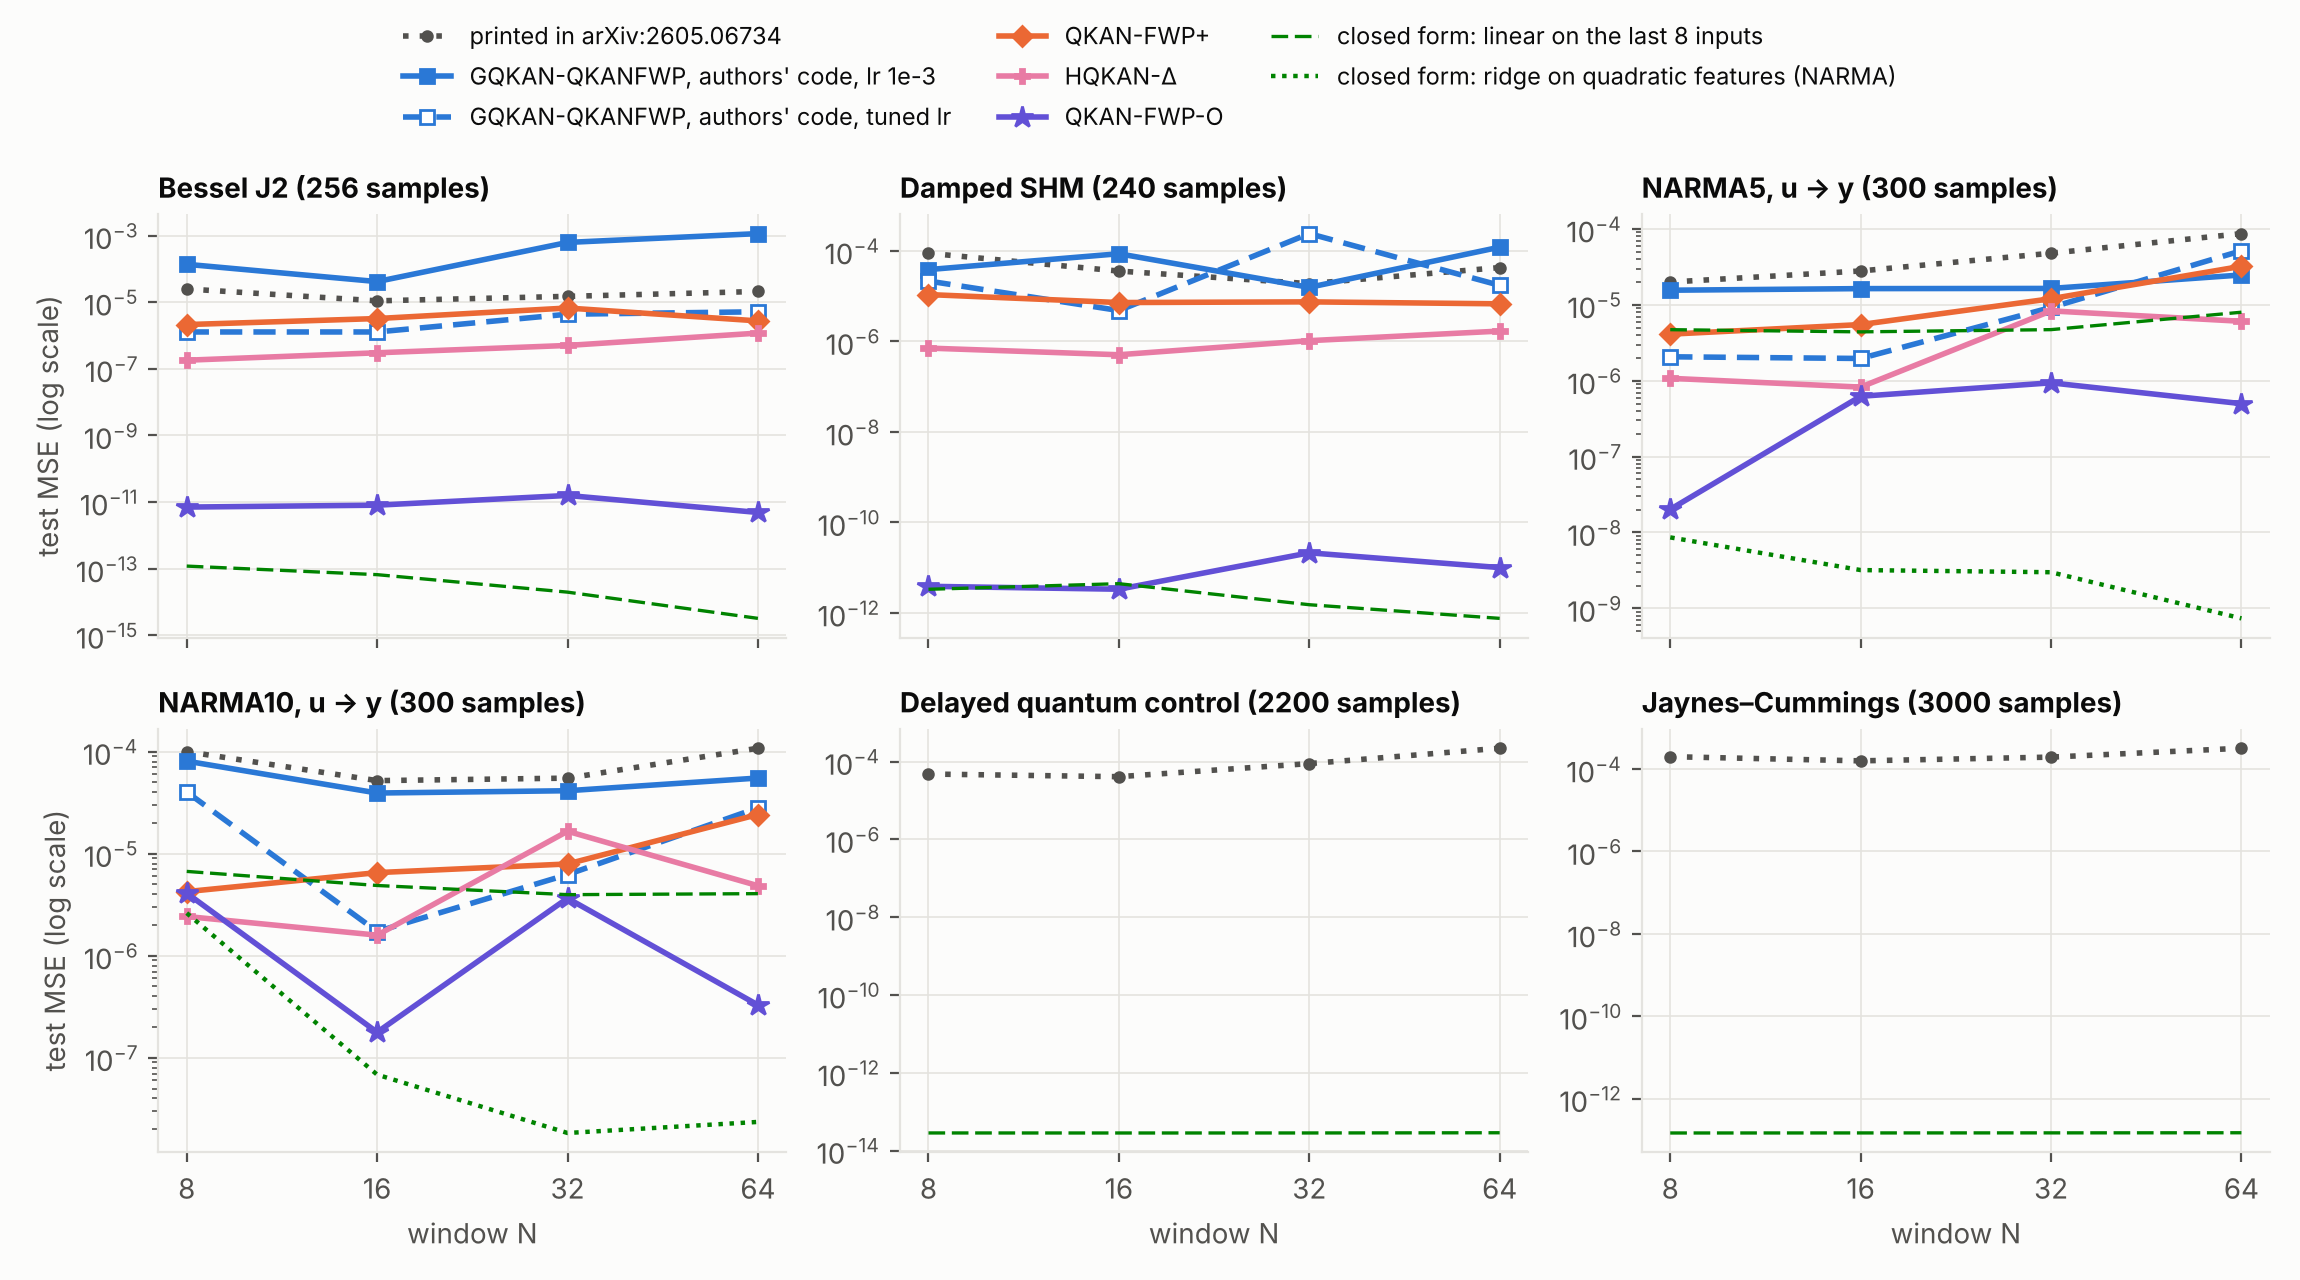
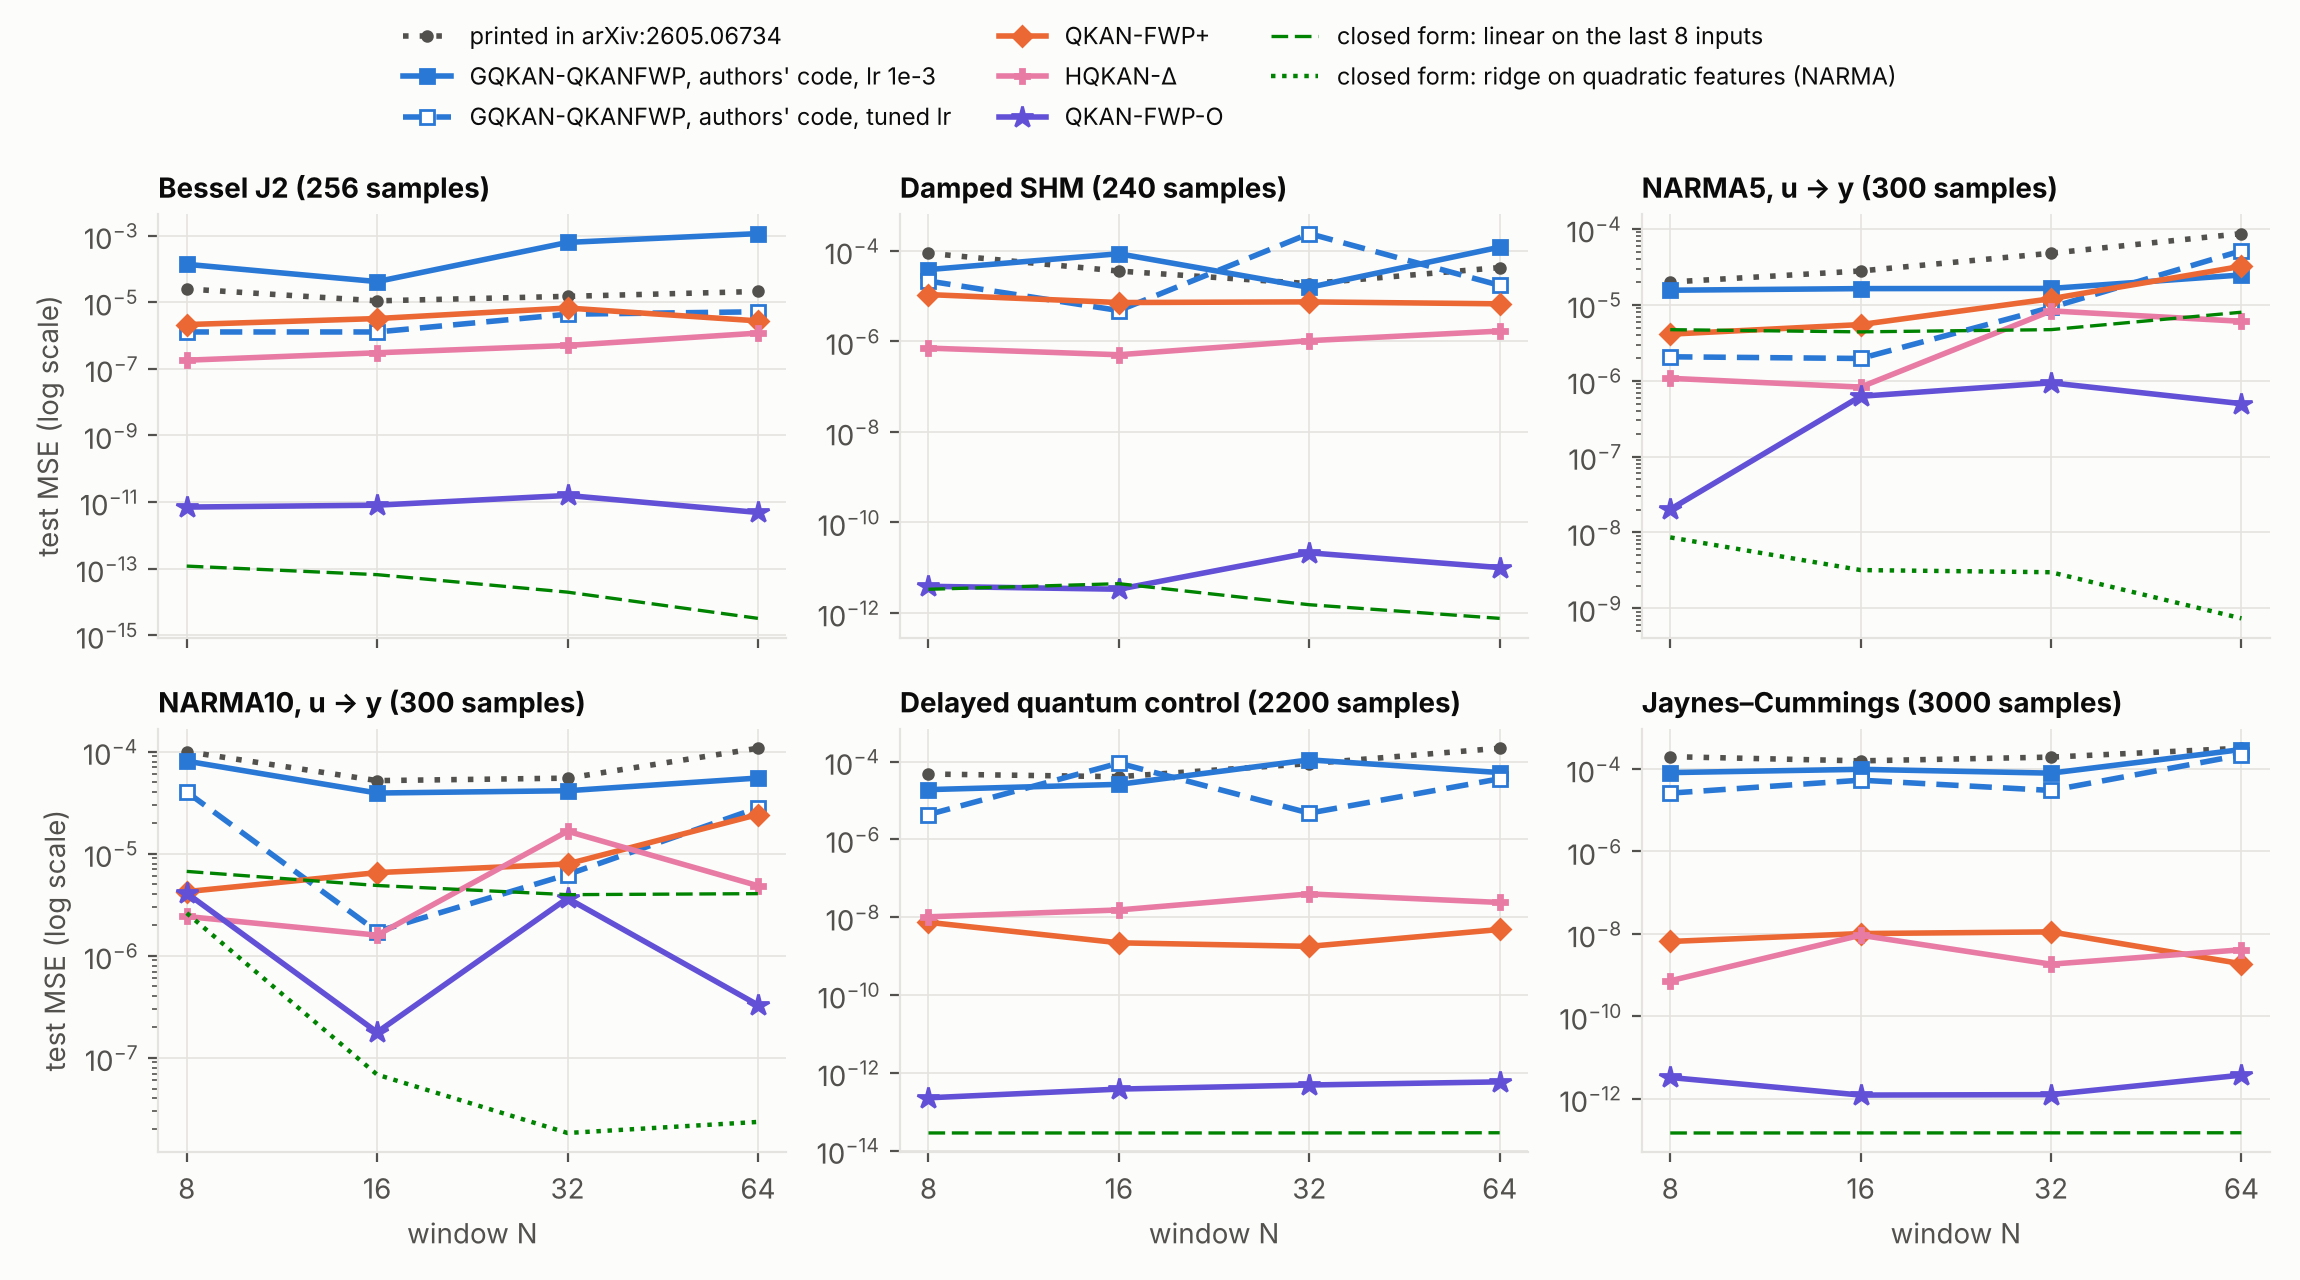
Authors' code protocol: long series (seeds 0-2) and report text in progress
Claude-Session: https://claude.ai/code/session_016nXnsLn5FE7GbFMSeiQvNh

diff --git a/experiments/report/build_report.py b/experiments/report/build_report.py
@@ -47,6 +47,12 @@ TABLES = {
     "burnin": ("tables_final.md", "NARMA without the start-up transient"),
     "solar_parts": ("tables_final.md", "Solar cycle: final comparison"),
     "solar_grid": ("tables_final.md", "Solar cycle: the paper's learning-rate grid"),
+    # results/tables_code.md: the settings of the authors' released code
+    "code_repro": ("tables_code.md", "Reproduction with the authors' settings"),
+    "code_summary": ("tables_code.md", "Authors' datasets: per-dataset summary"),
+    "code_vs": ("tables_code.md", "Authors' datasets: QKAN-FWP-O against each model"),
+    "code_cells": ("tables_code.md", "Authors' datasets: all cells"),
+    "code_solar": ("tables_code.md", "Solar cycle with the file, split and model of the authors' code"),
     # results/tables_single_change.md
     "single_change": ("tables_single_change.md", "Time series: ablation"),
 }

diff --git a/results/tables_code.md b/results/tables_code.md
@@ -20,8 +20,16 @@ The paper states 50 epochs; the README of the code gives 100 epochs as the bench
 | NARMA10, u → y (300 samples) | 16 | 5.2e-05 | 3.9e-05 ± 1.8e-05 | 4.5e-05 | 8.3e-06 | 5 | 0.76× |
 | NARMA10, u → y (300 samples) | 32 | 5.5e-05 | 4.1e-05 ± 1.7e-05 | 3.0e-05 | 1.6e-05 | 5 | 0.75× |
 | NARMA10, u → y (300 samples) | 64 | 1.1e-04 | 5.5e-05 ± 2.2e-05 | 5.3e-05 | 2.2e-05 | 5 | 0.51× |
+| Delayed quantum control (2200 samples) | 8 | 4.8e-05 | 1.9e-05 ± 3.3e-06 | 1.9e-05 | 1.7e-05 | 3 | 0.4× |
+| Delayed quantum control (2200 samples) | 16 | 4.1e-05 | 2.6e-05 ± 9.2e-06 | 2.3e-05 | 1.5e-05 | 3 | 0.63× |
+| Delayed quantum control (2200 samples) | 32 | 8.9e-05 | 1.1e-04 ± 6.2e-05 | 1.0e-04 | 5.1e-05 | 3 | 1.2× |
+| Delayed quantum control (2200 samples) | 64 | 2.2e-04 | 5.2e-05 ± 5.2e-05 | 3.1e-05 | 5.1e-05 | 3 | 0.24× |
+| Jaynes–Cummings (3000 samples) | 8 | 2.0e-04 | 8.2e-05 ± 6.9e-06 | 8.7e-05 | 7.9e-05 | 3 | 0.41× |
+| Jaynes–Cummings (3000 samples) | 16 | 1.6e-04 | 9.9e-05 ± 7.9e-05 | 7.8e-05 | 2.2e-05 | 3 | 0.62× |
+| Jaynes–Cummings (3000 samples) | 32 | 2.0e-04 | 8.0e-05 ± 5.2e-05 | 9.3e-05 | 6.6e-05 | 3 | 0.41× |
+| Jaynes–Cummings (3000 samples) | 64 | 3.2e-04 | 3.0e-04 ± 3.0e-04 | 1.2e-04 | 2.6e-04 | 3 | 0.93× |
 
-- Geometric mean over the 16 cells of (re-run ÷ printed): 1.6× with the mean at 50 epochs, 0.82× with the median at 50 epochs, 0.76× with the mean at 100 epochs.
+- Geometric mean over the 24 cells of (re-run ÷ printed): 1.1× with the mean at 50 epochs, 0.66× with the median at 50 epochs, 0.59× with the mean at 100 epochs.
 
 ## Authors' datasets: per-dataset summary (geometric mean over N ∈ {8, 16, 32, 64} of the seed-mean test MSE)
 
@@ -33,8 +41,8 @@ On the two NARMA tasks the window holds the drive u and the target is y: the mod
 | Damped SHM (240 samples) | 8.8e-06 | 5.0e-05 | 2.6e-05 | 8.0e-06 | 9.0e-07 | 2.7e-07 | **7.3e-12** | *2.0e-12* | – |
 | NARMA5, u → y (300 samples) | 6.5e-06 | 1.8e-05 | 6.6e-06 | 9.7e-06 | 2.6e-06 | 2.4e-06 | **2.8e-07** | *5.3e-06* | *2.8e-09* |
 | NARMA10, u → y (300 samples) | 9.5e-06 | 5.2e-05 | 1.1e-05 | 8.5e-06 | 4.2e-06 | 2.5e-06 | **9.7e-07** | *4.8e-06* | *9.4e-08* |
-| Delayed quantum control (2200 samples) | 5.5e-06 | – | – | – | – | – | – | *2.8e-14* | – |
-| Jaynes–Cummings (3000 samples) | 7.6e-06 | – | – | – | – | – | – | *1.5e-13* | – |
+| Delayed quantum control (2200 samples) | 5.5e-06 | 4.1e-05 | 1.6e-05 | 3.4e-09 | 2.0e-08 | 7.5e-12 | **4.0e-13** | *2.8e-14* | – |
+| Jaynes–Cummings (3000 samples) | 7.6e-06 | 1.2e-04 | 5.5e-05 | 6.1e-09 | 2.7e-09 | 5.3e-12 | **2.1e-12** | *1.5e-13* | – |
 
 ## Authors' datasets: QKAN-FWP-O against each model (reference test MSE ÷ QKAN-FWP-O test MSE; above 1: QKAN-FWP-O is lower)
 
@@ -42,13 +50,13 @@ Geometric mean over the four windows per dataset; values below 1e-15 are clipped
 
 | Compared with | Bessel J2 | Damped SHM | NARMA5, u → y | NARMA10, u → y | Delayed quantum control | Jaynes–Cummings | Cells where QKAN-FWP-O is lower | Smallest … largest factor |
 |---|---|---|---|---|---|---|---|---|
-| GQKAN-QKANFWP, authors' code, lr 1e-3 | 3.1e7× | 6.9e6× | 65× | 54× | – | – | 16/16 | 11× … 2.3e8× |
-| GQKAN-QKANFWP, authors' code, tuned lr | 3.0e5× | 3.5e6× | 24× | 11× | – | – | 16/16 | 1.7× … 1.1e7× |
-| QKAN-FWP+ | 4.1e5× | 1.1e6× | 35× | 8.8× | – | – | 16/16 | 1× … 2.8e6× |
-| HQKAN-Δ | 5.2e4× | 1.2e5× | 9.3× | 4.3× | – | – | 15/16 | 0.59× … 2.4e5× |
-| QKAN-FWP-O features, static observable | 1.0e4× | 3.7e4× | 8.8× | 2.6× | – | – | 14/16 | 0.48× … 5.5e4× |
-| *Best printed number of the two papers* | 6.5e5× | 1.2e6× | 23× | 9.8× | – | – | 16/16 | 3.6× … 4.2e6× |
-| *Linear on the last 8 inputs* | 0.0033× | 0.28× | 19× | 4.9× | – | – | 9/16 | 0.00066× … 234× |
+| GQKAN-QKANFWP, authors' code, lr 1e-3 | 3.1e7× | 6.9e6× | 65× | 54× | 1.0e8× | 5.7e7× | 24/24 | 11× … 2.3e8× |
+| GQKAN-QKANFWP, authors' code, tuned lr | 3.0e5× | 3.5e6× | 24× | 11× | 4.1e7× | 2.7e7× | 24/24 | 1.7× … 2.4e8× |
+| QKAN-FWP+ | 4.1e5× | 1.1e6× | 35× | 8.8× | 8690× | 2956× | 24/24 | 1× … 2.8e6× |
+| HQKAN-Δ | 5.2e4× | 1.2e5× | 9.3× | 4.3× | 5.0e4× | 1290× | 23/24 | 0.59× … 2.4e5× |
+| QKAN-FWP-O features, static observable | 1.0e4× | 3.7e4× | 8.8× | 2.6× | 19× | 2.6× | 21/24 | 0.17× … 5.5e4× |
+| *Best printed number of the two papers* | 6.5e5× | 1.2e6× | 23× | 9.8× | 1.4e7× | 3.7e6× | 24/24 | 3.6× … 1.8e7× |
+| *Linear on the last 8 inputs* | 0.0033× | 0.28× | 19× | 4.9× | 0.072× | 0.071× | 9/24 | 0.00066× … 234× |
 | *Ridge on quadratic features (NARMA only)* | – | – | 0.01× | 0.097× | – | – | 0/8 | 0.0015× … 0.64× |
 
 ## Authors' datasets: all cells (test MSE, mean ± std over the seeds)
@@ -71,5 +79,12 @@ Geometric mean over the four windows per dataset; values below 1e-15 are clipped
 | NARMA10, u → y (300 samples) | 16 | 5 | 3.93e-05 ± 1.8e-05 | 1.73e-06 ± 3.8e-07 | 6.52e-06 ± 2.4e-06 | 1.59e-06 ± 1.4e-06 | 2.32e-06 ± 2.7e-07 | **1.78e-07 ± 7.5e-08** | *4.9e-06* | *6.8e-08* |
 | NARMA10, u → y (300 samples) | 32 | 5 | 4.14e-05 ± 1.7e-05 | 6.24e-06 ± 2.0e-06 | 7.93e-06 ± 2.7e-06 | 1.66e-05 ± 3.1e-05 | **1.83e-06 ± 2.9e-07** | 3.66e-06 ± 3.4e-07 | *4.0e-06* | *1.8e-08* |
 | NARMA10, u → y (300 samples) | 64 | 5 | 5.51e-05 ± 2.2e-05 | 2.81e-05 ± 3.0e-05 | 2.42e-05 ± 1.8e-05 | 4.85e-06 ± 3.4e-06 | 4.70e-06 ± 1.5e-06 | **3.29e-07 ± 1.5e-07** | *4.1e-06* | *2.4e-08* |
-| Delayed quantum control (2200 samples) | 64 | 3 | – | 3.62e-05 ± 4.2e-05 | – | **2.39e-08 ± 3.0e-08** | – | – | *2.9e-14* | – |
+| Delayed quantum control (2200 samples) | 8 | 3 | 1.91e-05 ± 3.3e-06 | 4.36e-06 ± 8.6e-07 | 7.38e-09 ± 8.2e-09 | 1.02e-08 ± 2.9e-09 | 2.80e-12 ± 7.4e-13 | **2.27e-13 ± 1.5e-13** | *2.8e-14* | – |
+| Delayed quantum control (2200 samples) | 16 | 3 | 2.60e-05 ± 9.2e-06 | 9.15e-05 ± 1.2e-04 | 2.19e-09 ± 4.4e-10 | 1.53e-08 ± 1.6e-08 | 1.12e-11 ± 1.4e-11 | **3.80e-13 ± 1.4e-13** | *2.8e-14* | – |
+| Delayed quantum control (2200 samples) | 32 | 3 | 1.11e-04 ± 6.2e-05 | 4.74e-06 ± 2.1e-06 | 1.78e-09 ± 1.7e-10 | 3.97e-08 ± 4.8e-08 | 1.16e-11 ± 9.3e-12 | **4.84e-13 ± 1.5e-13** | *2.8e-14* | – |
+| Delayed quantum control (2200 samples) | 64 | 3 | 5.24e-05 ± 5.2e-05 | 3.62e-05 ± 4.2e-05 | 4.83e-09 ± 4.4e-09 | 2.39e-08 ± 3.0e-08 | 8.86e-12 ± 3.0e-12 | **5.83e-13 ± 1.7e-13** | *2.9e-14* | – |
+| Jaynes–Cummings (3000 samples) | 8 | 3 | 8.24e-05 ± 6.9e-06 | 2.61e-05 ± 3.7e-06 | 6.52e-09 ± 2.2e-09 | 7.23e-10 ± 4.6e-10 | **5.63e-13 ± 1.4e-13** | 3.24e-12 ± 2.8e-13 | *1.5e-13* | – |
+| Jaynes–Cummings (3000 samples) | 16 | 3 | 9.90e-05 ± 7.9e-05 | 5.39e-05 ± 4.8e-06 | 1.02e-08 ± 1.1e-08 | 9.25e-09 ± 1.2e-08 | 8.03e-12 ± 8.9e-12 | **1.21e-12 ± 1.5e-13** | *1.5e-13* | – |
+| Jaynes–Cummings (3000 samples) | 32 | 3 | 8.00e-05 ± 5.2e-05 | 3.04e-05 ± 4.7e-06 | 1.12e-08 ± 1.1e-08 | 1.83e-09 ± 9.4e-10 | 1.52e-11 ± 1.5e-11 | **1.24e-12 ± 6.0e-13** | *1.5e-13* | – |
+| Jaynes–Cummings (3000 samples) | 64 | 3 | 2.99e-04 ± 3.0e-04 | 2.20e-04 ± 2.7e-04 | 1.88e-09 ± 4.9e-10 | 4.10e-09 ± 2.5e-09 | 1.18e-11 ± 9.8e-13 | **3.70e-12 ± 1.3e-12** | *1.5e-13* | – |
 
